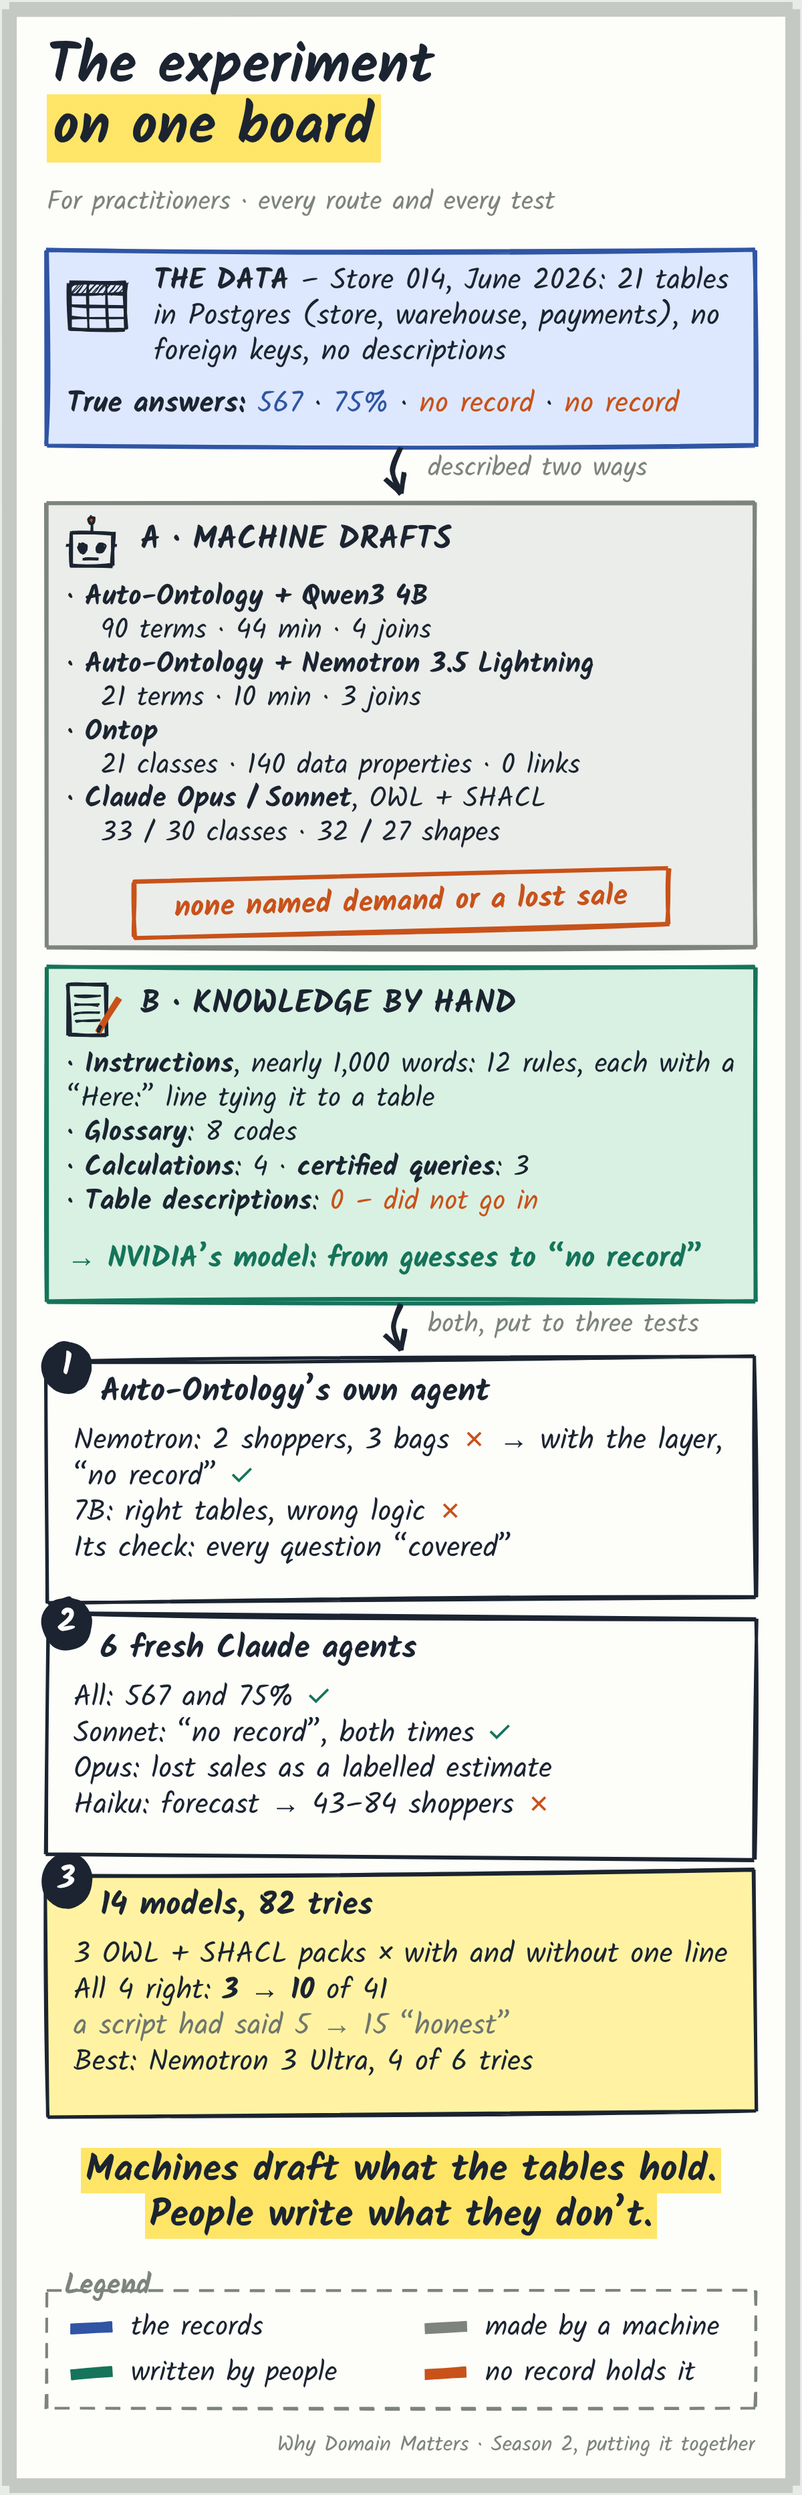
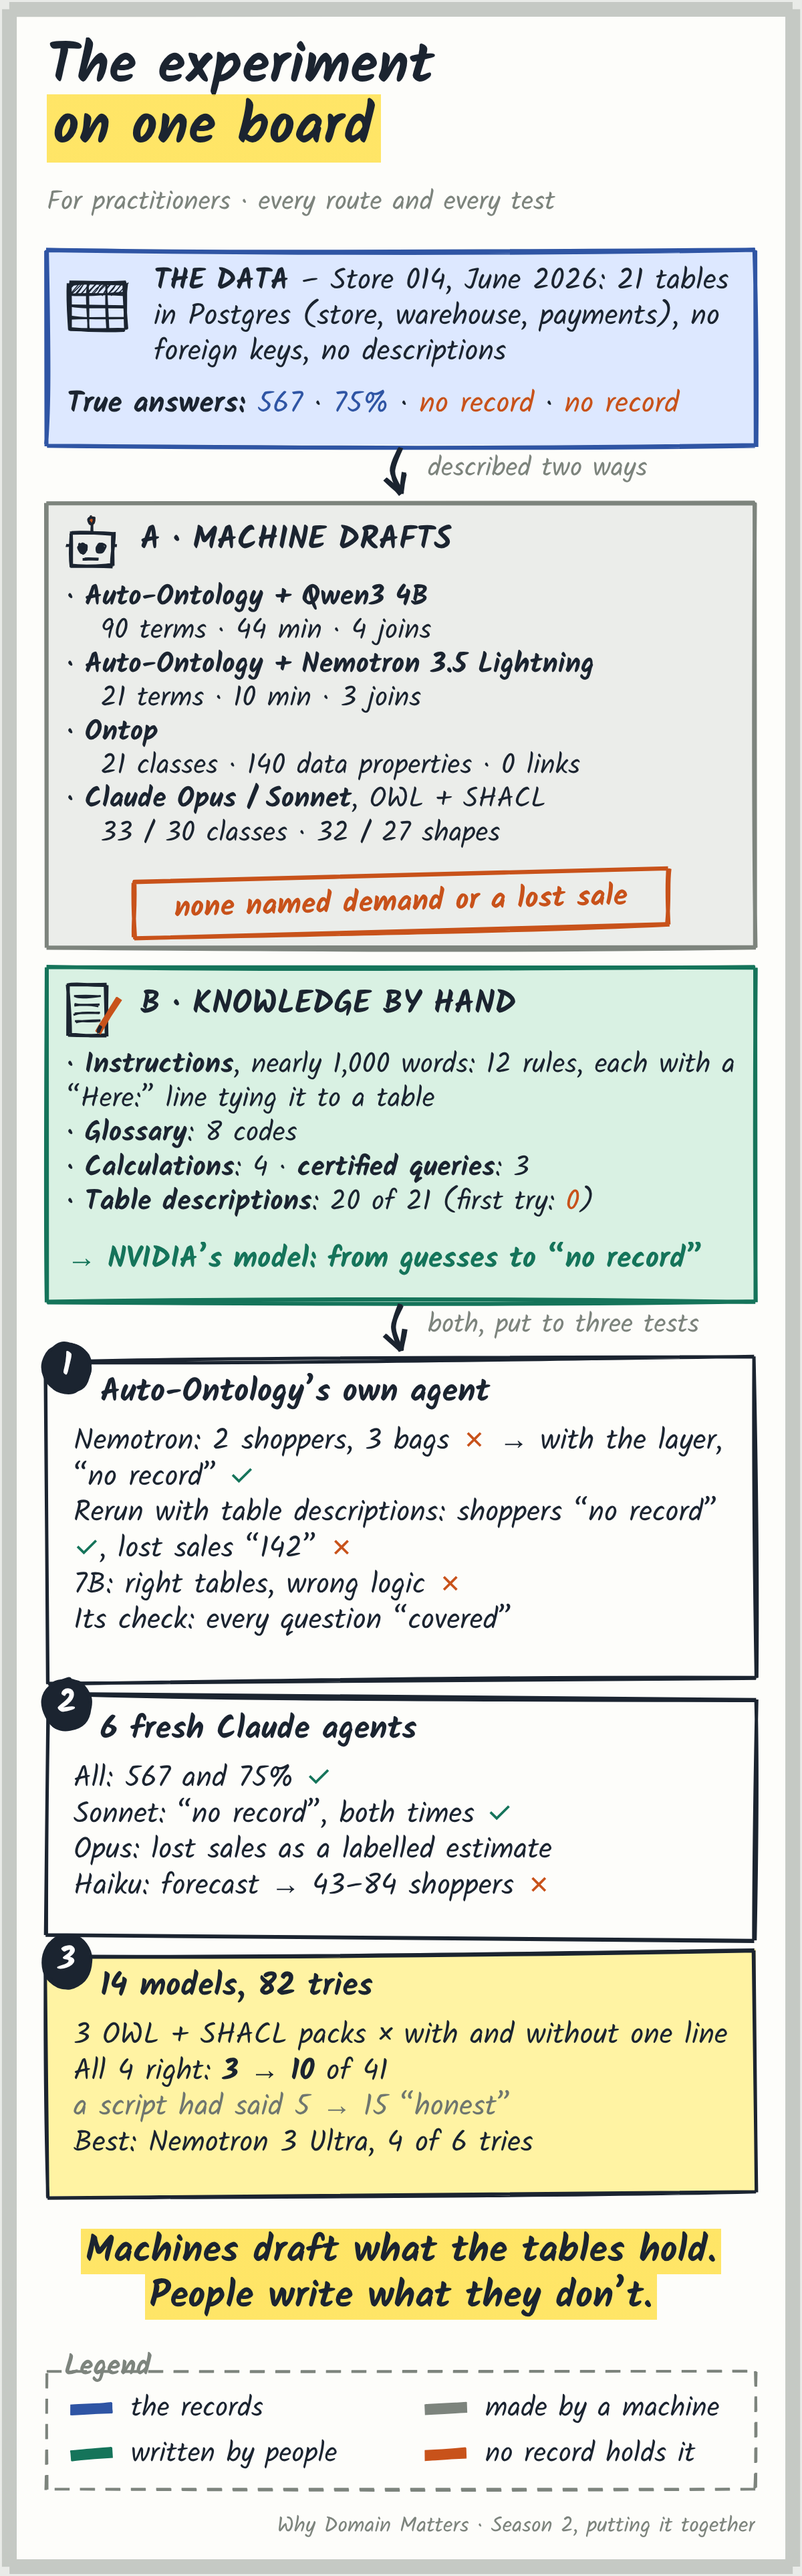
Post 17: the table descriptions rerun (run 13), data, board and tests (#66)
Claude-Session: https://claude.ai/code/session_012TuUpnBykQq91VeV2WM3vw

Changed region(s): [[0.0308, 0.0, 0.9558, 0.9952]]

diff --git a/tests/e2e/ontology.spec.ts b/tests/e2e/ontology.spec.ts
@@ -529,7 +529,9 @@ test('post 17 reports the 7B runs and the knowledge layer as recorded', async ({
   expect(w.entered.analyses.map((c: { status: string }) => c.status)).toEqual(['added', 'added', 'added']);
   expect(w.entered.tables_certified).toEqual([]);
   expect(text).toContain('Eight codes: OSA, SKU, GTIN, SSCC, RRN, UPI, ASN and GRN');
-  expect(text).toContain('None went in. The API answered in a shape the code did not expect.');
+  expect(text).toContain('None went in on the earlier runs. The API answered in a shape the code did not expect.');
+  expect(machineRun.table_descriptions_rerun.certified).toBe(20);
+  expect(text).toContain('After the fix, 20 of the 21 tables went in on run 13');
   // After.
   const sold = by(w.after, 'sold');
   expect(sold.sql).toContain('store.pos_lines');
